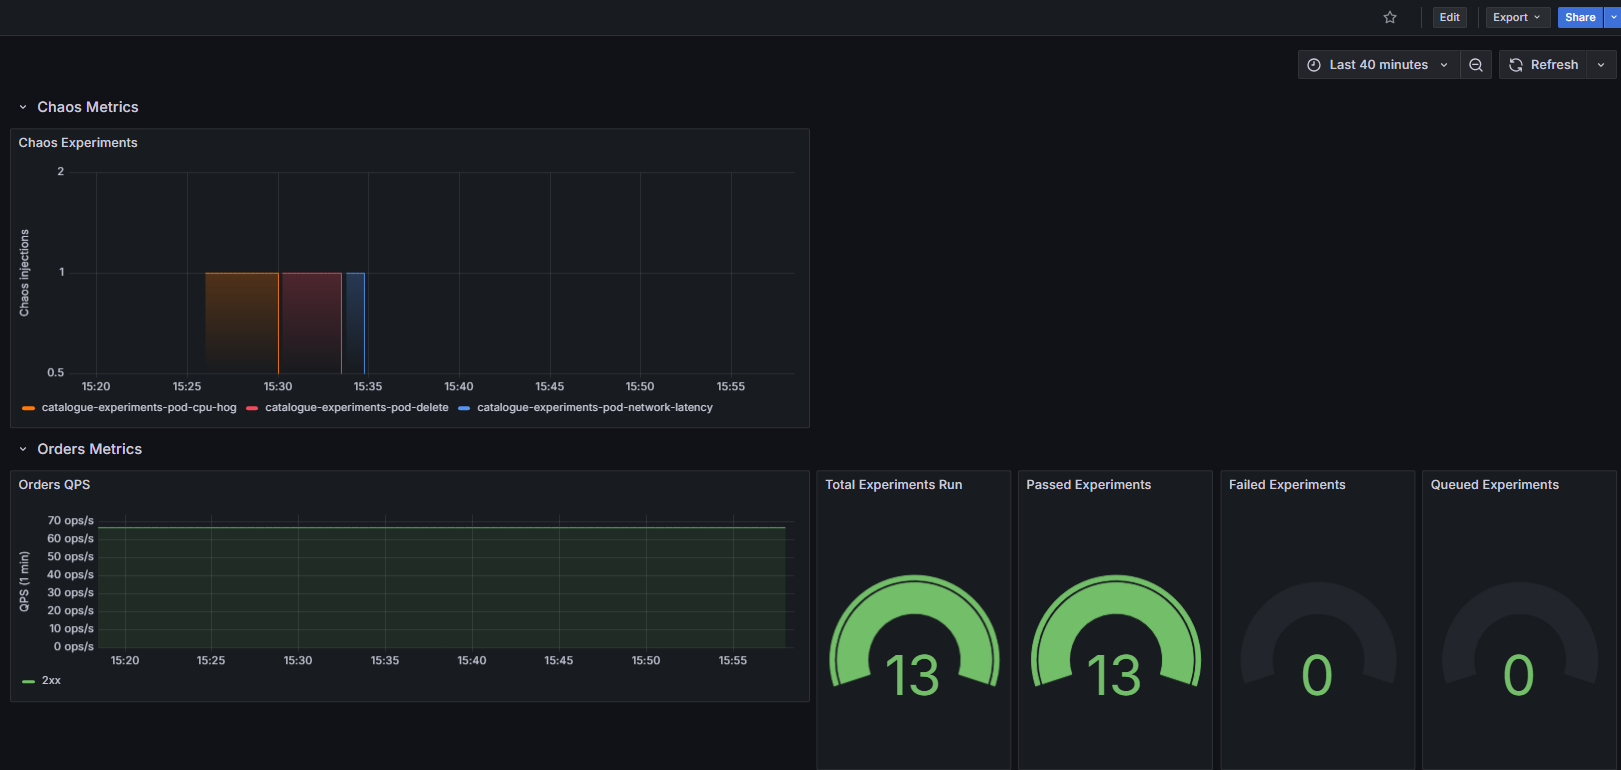
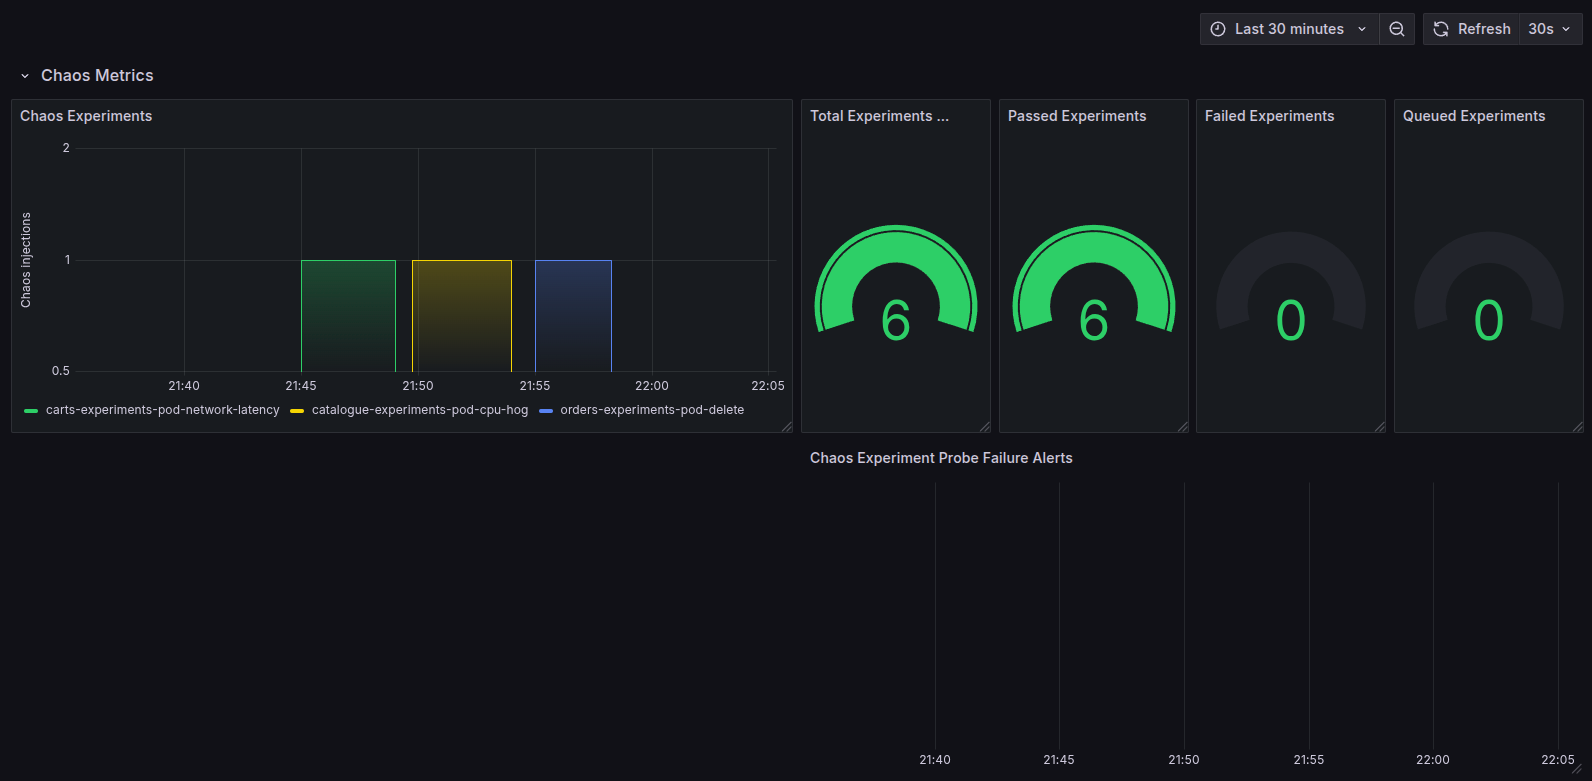
Update 4.1 (#6)
* Split the big experiments yaml into separate experiment yamls

* Add .gitignore. Ignore chaos-charts-3.0.0

* Add experiments execution screenshots and descriptions

* Change the hypothesis and add fitting diagrams

* Add short experiments' descriptions

diff --git a/README.md b/README.md
@@ -48,32 +48,32 @@ As Litmus documentation says: 'Keep verifying is the key. Robust testing before 
 
 ## 3. Case study concept description
 
-Hypothesis: Sock Shop sustains p95 latency < 500 ms and HTTP 5xx ≤ 1 % while facing:
-
-1. Random pod deletion (***pod-delete***).
-
-2. 200 ms inter‑service network latency (***network-latency***).
+Hypothesis: Sock Shop sustains **p99 latency < 2 s** while facing various faults.
 
 The experiment workflow:
 
-1. Establish steady‑state via load generator (50 RPS - Requests Per Second).
+1. Establish steady‑state via load generator (3.5k QPS - Queries Per Second).
 
 2. Inject the fault with Litmus CRDs.
 
 3. Observe real‑time traces & metrics in Grafana.
 
-4. Compare KPIs (Key Performance Indicator - A measurable value that shows how well a system is performing, e.g p95 **latency < 500 ms** or  **HTTP 5xx < 1%** )  against the hypothesis and produce a verdict (Pass / Fail).
+4. Compare KPIs (Key Performance Indicator - A measurable value that shows how well a system is performing, e.g p99 **latency < 2 s** or  **HTTP 5xx < 1%** )  against the hypothesis and produce a verdict (Pass / Fail).
 
-**Experiment:**
-Introducing 200 ms inter-service network latency to existing microservices cluster. 
-
+**Experiments:**
+1. Introduce 200 ms carts pods network latency to existing microservices cluster for 4 minutes.
 ![Fault point 1; network latency](./images/fault-point-1.png)
-![Fault point 2; pod deletion](./images/fault-point-2.png)
+
+2. Introduce load on CPUs of catalogue pods for 4 minutes.
+![Fault point 2; cpu hog](./images/fault-point-2.png)
+
+3. Keep deleting orders pods for 2 minutes.
+![Fault point 3; pod deletion](./images/fault-point-3.png)
 
 
 ## 4. Solution architecture
 
-The application will be run on Amazon Web Service leveraging the Elastic Kubernetes Service. The business application, as mentioned in the previous section 1., will be the [SockShop](https://github.com/ocp-power-demos/sock-shop-demo), used widely as a demo application because of its microservice-centered structure. 
+The application will be run on Amazon Web Service leveraging the Elastic Kubernetes Service. The business application, as mentioned in the previous sections, will be the [SockShop](https://github.com/ocp-power-demos/sock-shop-demo), used widely as a demo application because of its microservice-centered structure. 
 
 SockShop architecture schema:
 
@@ -154,14 +154,14 @@ kubectl apply -f https://litmuschaos.github.io/litmus/litmus-admin-rbac.yaml
 
 Add monitoring (Prometheus + Grafana + Chaos Exporter):
 ```bash
-kubectl apply -f deploy/litmus-metrics/chaos-exporter.yaml
-kubectl apply -f deploy/monitoring/01-monitoring-ns.yaml
-kubectl apply -f deploy/monitoring/02-prometheus-rbac.yaml
-kubectl apply -f deploy/monitoring/03-prometheus-configmap.yaml
-kubectl apply -f deploy/monitoring/04-prometheus-alert-rules.yaml
-kubectl apply -f deploy/monitoring/05-prometheus-deployment.yaml
-kubectl apply -f deploy/monitoring/06-prometheus-svc.yaml
-kubectl apply -f deploy/monitoring/07-grafana-deployment.yaml
+kubectl apply -f deploy/litmus-metrics/chaos-exporter.yaml;
+kubectl apply -f deploy/monitoring/01-monitoring-ns.yaml;
+kubectl apply -f deploy/monitoring/02-prometheus-rbac.yaml;
+kubectl apply -f deploy/monitoring/03-prometheus-configmap.yaml;
+kubectl apply -f deploy/monitoring/04-prometheus-alert-rules.yaml;
+kubectl apply -f deploy/monitoring/05-prometheus-deployment.yaml;
+kubectl apply -f deploy/monitoring/06-prometheus-svc.yaml;
+kubectl apply -f deploy/monitoring/07-grafana-deployment.yaml;
 kubectl apply -f deploy/monitoring/08-grafana-svc.yaml
 ```
 
@@ -182,9 +182,9 @@ Set up Grafana:
 ```bash
 kubectl port-forward service/grafana 3000:3000 --namespace=monitoring
 ```
-Log into Grafana (default credentials: username: admin, password: admin) and create a new datasource, inputing Prometheus address.
+Log into Grafana (default credentials: username: admin, password: admin) and create a new datasource, inputing Prometheus address and naming it "DS_PROMETHEUS".
 
-Create new dashboard. `Dashboard` --> `New` --> `Import` --> `Copy` [this for sockshop metrics](https://raw.githubusercontent.com/litmuschaos/litmus/master/demo/sample-applications/sock-shop/deploy/monitoring/10-grafana-dashboard.json) and [this for litmus chaos experiment metrics](https://raw.githubusercontent.com/litmuschaos/litmus/master/monitoring/grafana-dashboards/sock-shop/Sock-Shop-Performance-Under-Chaos.json).
+Create new dashboard. `Dashboard` --> `New` --> `Import` --> `Copy` [this dashboard](./deploy/monitoring/12-grafana-dashboard_complete.json).
 
 ## 8. Demo deployment steps:
 
@@ -210,10 +210,8 @@ Choose an experiment from the [experiments](./experiments/) directory and run it
 ```bash
 kubectl apply -f experiments/<chosen-experiment>.yaml
 ```
-**note**: `catalogue-experiments.yaml` contains three experiments: `pod-cpu-hog` ,`pod-delete` and `network-latency`.
 
-
-Below are descriptions and visualizations of the three experiments included in `catalogue-experiments.yaml`:
+Below are descriptions and visualizations of the three prepared experiments:
 
 ### pod-delete
 Deletes pods of an application to test self-healing and availability mechanisms.  
@@ -245,24 +243,248 @@ kubectl logs <pod-name> -n litmus
 
 ### 4. Results presentation
 
+The Litmus Chaos experiments were successfully executed and monitored using Grafana dashboards. Three different types of faults were injected: `pod-cpu-hog`, `pod-delete`, and `pod-network-latency`. All chaos experiments completed successfully without failures (no chaos experiment probe failures).
+
+Each of the three experiments was triggered and shown in the "Chaos Experiments" panel with one injection per fault type.
+
 ![grafana-experiments](./images/grafana-experiments.png)
 
-The Litmus Chaos experiments were successfully executed and monitored using Grafana dashboards. Three different types of faults were injected: `pod-cpu-hog`, `pod-delete`, and `pod-network-latency`. All chaos experiments completed successfully without failures.
+#### Carts experiment (pod-network-latency) description
 
-**Chaos Experiments Injection**:
-  Each of the three experiments was triggered and shown in the "Chaos Experiments" panel with one injection per fault type.
+![grafana-metrics-cart](./images/grafana-metrics-cart.png)
+![grafana-metrics-frontend](./images/grafana-metrics-frontend.png)
 
-![grafana-experiments-pods-affected](./images/grafana-experiments-pods-affected.png)
-![catalogue-latency-p95-less-500ms](./images/catalogue-latency-p95-less-500ms.png)
+The increase in carts service latency is well visible. Nonetheless, the p99 latency did not exceede 2s, as assumed in the hypothesis.
 
-**System Behavior Metrics**:
+```yaml
+❯ kubectl describe chaosengine carts-experiments -n litmus
+Name:         carts-experiments
+Namespace:    litmus
+Labels:       <none>
+Annotations:  <none>
+API Version:  litmuschaos.io/v1alpha1
+Kind:         ChaosEngine
+Metadata:
+  Creation Timestamp:  2025-06-02T19:11:40Z
+  Finalizers:
+    chaosengine.litmuschaos.io/finalizer
+  Generation:        65
+  Resource Version:  35179
+  UID:               6c5128b2-b993-477f-876a-699cfcb2518b
+Spec:
+  Appinfo:
+    Appkind:              deployment
+    Applabel:             name=carts
+    Appns:                sock-shop
+  Chaos Service Account:  litmus-admin
+  Components:
+    Runner:
+      Resources:
+  Engine State:  stop
+  Experiments:
+    Name:  pod-network-latency
+    Spec:
+      Components:
+        Env:
+          Name:   APP_NAMESPACE
+          Value:  sock-shop
+          Name:   APP_LABEL
+          Value:  name=carts
+          Name:   APP_KIND
+          Value:  deployment
+          Name:   TARGET_CONTAINER
+          Value:  carts
+          Name:   NETWORK_INTERFACE
+          Value:  eth0
+          Name:   NETWORK_LATENCY
+          Value:  200
+          Name:   TOTAL_CHAOS_DURATION
+          Value:  240
+          Name:   PODS_AFFECTED_PERC
+          Value:  100
+          Name:   CONTAINER_RUNTIME
+          Value:  containerd
+          Name:   SOCKET_PATH
+          Value:  /run/containerd/containerd.sock
+        Resources:
+        Status Check Timeouts:
+Status:
+  Engine Status:  completed
+  Experiments:
+    Experiment Pod:    pod-network-latency-e6mctx-5rfvv
+    Last Update Time:  2025-06-02T19:49:00Z
+    Name:              pod-network-latency
+    Runner:            carts-experiments-runner
+    Status:            Completed
+    Verdict:           Pass
+Events:
+  Type    Reason                     Age                  From                              Message
+  ----    ------                     ----                 ----                              -------
+  Normal  ChaosEngineInitialized     5m33s (x2 over 38m)  chaos-operator                    Identifying app under test & launching carts-experiments-runner
+  Normal  ExperimentDependencyCheck  5m29s (x2 over 38m)  carts-experiments-runner          Experiment resources validated for Chaos Experiment: pod-network-latency
+  Normal  ExperimentJobCreate        5m29s (x2 over 38m)  carts-experiments-runner          Experiment Job pod-network-latency-e6mctx for Chaos Experiment: pod-network-latency
+  Normal  PreChaosCheck              5m22s (x2 over 38m)  pod-network-latency-e6mctx-5rfvv  Skipped the default checks
+  Normal  ChaosInject                5m21s (x2 over 38m)  pod-network-latency-helper-b89xx  Injected pod-network-latency chaos on application pods
+  Normal  PostChaosCheck             77s (x2 over 37m)    pod-network-latency-e6mctx-5rfvv  Skipped the default checks
+  Normal  Summary                    73s (x2 over 37m)    pod-network-latency-e6mctx-5rfvv  pod-network-latency experiment has been Passed
+  Normal  ExperimentJobCleanUp       67s (x2 over 36m)    carts-experiments-runner          Experiment Job pod-network-latency-e6mctx will be retained
+  Normal  ChaosEngineCompleted       66s (x2 over 36m)    chaos-operator                    ChaosEngine completed, will delete or retain the resources according to jobCleanUpPolicy
 
-* **Catalogue QPS** temporarily dropped during the `pod-delete` fault injection.
-* **Catalogue Latency** briefly spiked during the `pod-network-latency` injection, with the 99th percentile reaching approximately 2 seconds.
+```
 
-* **Catalogue p95 Latency** temporarily increased during the `pod-network-latency` injection, peaking at **495 ms around 15:34:30**, but remained **within the hypothesis threshold (p95 < 500 ms)**.
+#### Catalogue experiment (pod-cpu-hog) description
 
+![grafana-metrics-catalogue](./images/grafana-metrics-catalogue.png)
+![grafana-metrics-frontend](./images/grafana-metrics-frontend.png)
 
+The catalogue cpu hog experiment lasted from around 21:50 to 21:54, which is slightly visible in both catalogue plots. It seems like this experiment has very insignificant impact on frontend latency (even p99), so the hypothesis definitely holds.
+
+```yaml
+❯ kubectl describe chaosengine catalogue-experiments -n litmus
+Name:         catalogue-experiments
+Namespace:    litmus
+Labels:       <none>
+Annotations:  <none>
+API Version:  litmuschaos.io/v1alpha1
+Kind:         ChaosEngine
+Metadata:
+  Creation Timestamp:  2025-06-02T19:09:22Z
+  Finalizers:
+    chaosengine.litmuschaos.io/finalizer
+  Generation:        95
+  Resource Version:  36438
+  UID:               4554d61e-9ef3-4b21-a538-c634e0c829dd
+Spec:
+  Appinfo:
+    Appkind:              deployment
+    Applabel:             name=catalogue
+    Appns:                sock-shop
+  Chaos Service Account:  litmus-admin
+  Components:
+    Runner:
+      Resources:
+  Engine State:  stop
+  Experiments:
+    Name:  pod-cpu-hog
+    Spec:
+      Components:
+        Env:
+          Name:   APP_NAMESPACE
+          Value:  sock-shop
+          Name:   APP_LABEL
+          Value:  name=catalogue
+          Name:   APP_KIND
+          Value:  deployment
+          Name:   PODS_AFFECTED_PERC
+          Value:  100
+          Name:   TARGET_CONTAINER
+          Value:  catalogue
+          Name:   CPU_CORES
+          Value:  2
+          Name:   TOTAL_CHAOS_DURATION
+          Value:  240
+        Resources:
+        Status Check Timeouts:
+Status:
+  Engine Status:  completed
+  Experiments:
+    Experiment Pod:    pod-cpu-hog-znscki-g4wj7
+    Last Update Time:  2025-06-02T19:53:53Z
+    Name:              pod-cpu-hog
+    Runner:            catalogue-experiments-runner
+    Status:            Completed
+    Verdict:           Pass
+Events:
+  Type    Reason                     Age                  From                          Message
+  ----    ------                     ----                 ----                          -------
+  Normal  ChaosEngineInitialized     5m21s (x2 over 45m)  chaos-operator                Identifying app under test & launching catalogue-experiments-runner
+  Normal  ExperimentDependencyCheck  5m20s (x2 over 45m)  catalogue-experiments-runner  Experiment resources validated for Chaos Experiment: pod-cpu-hog
+  Normal  ExperimentJobCreate        5m20s (x2 over 45m)  catalogue-experiments-runner  Experiment Job pod-cpu-hog-znscki for Chaos Experiment: pod-cpu-hog
+  Normal  PreChaosCheck              5m13s (x2 over 45m)  pod-cpu-hog-znscki-g4wj7      Skipped the default checks
+  Normal  ChaosInject                5m11s (x2 over 45m)  pod-cpu-hog-helper-4t2t2      Injecting pod-cpu-hog chaos on application pod
+  Normal  PostChaosCheck             67s (x2 over 41m)    pod-cpu-hog-znscki-g4wj7      Skipped the default checks
+  Normal  Summary                    63s (x2 over 41m)    pod-cpu-hog-znscki-g4wj7      pod-cpu-hog experiment has been Passed
+  Normal  ExperimentJobCleanUp       57s (x2 over 41m)    catalogue-experiments-runner  Experiment Job pod-cpu-hog-znscki will be retained
+  Normal  ChaosEngineCompleted       57s (x2 over 41m)    chaos-operator                ChaosEngine completed, will delete or retain the resources according to jobCleanUpPolicy
+
+```
+
+#### Orders experiment (pod-delete) description
+
+![grafana-metrics-orders](./images/grafana-metrics-orders.png)
+![grafana-metrics-frontend](./images/grafana-metrics-frontend.png)
+
+The orders QPS plot and latency plot show that from 21:55 to 21:58 the orders pods did not report any metrics, so we can conclude that the experiments did run successfuly and all of them were deleted. What's significant about this experiment is that the frontend latency drastically increased - to around 5 s at the peak. It's well above the assumed 2 s, and so this fault was revealed to be unacceptable. Thus, additional steps regarding orders pods deletions would be recommended.
+
+```yaml
+❯ kubectl describe chaosengine orders-experiments -n litmus
+Name:         orders-experiments
+Namespace:    litmus
+Labels:       <none>
+Annotations:  <none>
+API Version:  litmuschaos.io/v1alpha1
+Kind:         ChaosEngine
+Metadata:
+  Creation Timestamp:  2025-06-02T19:13:06Z
+  Finalizers:
+    chaosengine.litmuschaos.io/finalizer
+  Generation:        77
+  Resource Version:  37572
+  UID:               db4e5a90-1485-4760-998f-4eddeecd588d
+Spec:
+  Appinfo:
+    Appkind:              deployment
+    Applabel:             name=orders
+    Appns:                sock-shop
+  Chaos Service Account:  litmus-admin
+  Components:
+    Runner:
+      Resources:
+  Engine State:  stop
+  Experiments:
+    Name:  pod-delete
+    Spec:
+      Components:
+        Env:
+          Name:   APP_NAMESPACE
+          Value:  sock-shop
+          Name:   APP_LABEL
+          Value:  name=orders
+          Name:   APP_KIND
+          Value:  deployment
+          Name:   TOTAL_CHAOS_DURATION
+          Value:  60
+          Name:   CHAOS_INTERVAL
+          Value:  30
+          Name:   PODS_AFFECTED_PERC
+          Value:  100
+          Name:   FORCE
+          Value:  true
+        Resources:
+        Status Check Timeouts:
+Status:
+  Engine Status:  completed
+  Experiments:
+    Experiment Pod:    pod-delete-ghqkgj-nm48p
+    Last Update Time:  2025-06-02T19:58:11Z
+    Name:              pod-delete
+    Runner:            orders-experiments-runner
+    Status:            Completed
+    Verdict:           Pass
+Events:
+  Type    Reason                     Age                  From                       Message
+  ----    ------                     ----                 ----                       -------
+  Normal  ChaosEngineInitialized     9m19s (x2 over 50m)  chaos-operator             Identifying app under test & launching orders-experiments-runner
+  Normal  ExperimentDependencyCheck  9m17s (x2 over 50m)  orders-experiments-runner  Experiment resources validated for Chaos Experiment: pod-delete
+  Normal  ExperimentJobCreate        9m17s (x2 over 50m)  orders-experiments-runner  Experiment Job pod-delete-ghqkgj for Chaos Experiment: pod-delete
+  Normal  ChaosInject                9m10s (x2 over 50m)  pod-delete-ghqkgj-nm48p    Injecting pod-delete chaos on application pod
+  Normal  PreChaosCheck              9m10s (x2 over 50m)  pod-delete-ghqkgj-nm48p    Skipped the default checks
+  Normal  PostChaosCheck             6m1s (x2 over 47m)   pod-delete-ghqkgj-nm48p    Skipped the default checks
+  Normal  Summary                    5m57s (x2 over 47m)  pod-delete-ghqkgj-nm48p    pod-delete experiment has been Passed
+  Normal  ExperimentJobCleanUp       5m50s (x2 over 47m)  orders-experiments-runner  Experiment Job pod-delete-ghqkgj will be retained
+  Normal  ChaosEngineCompleted       5m49s (x2 over 47m)  chaos-operator             ChaosEngine completed, will delete or retain the resources according to jobCleanUpPolicy
+
+```
 
 ## 9. Using AI in the project
 
